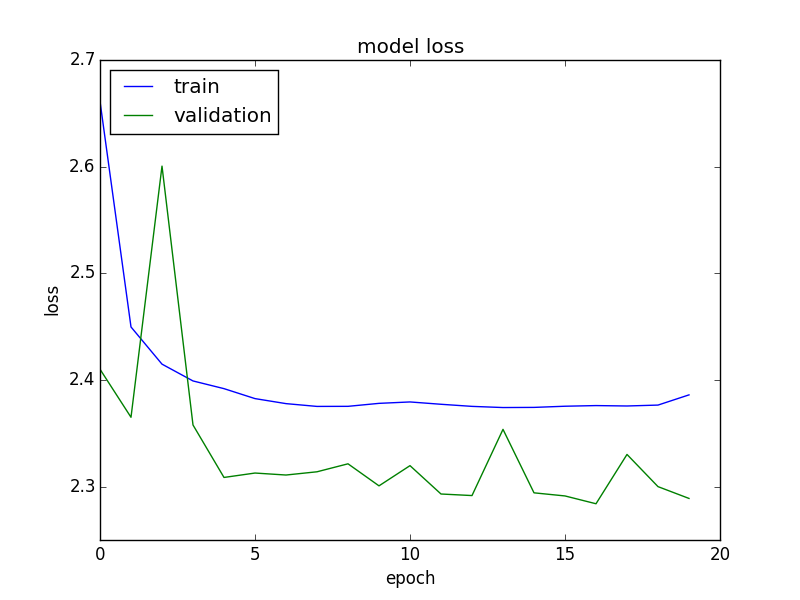
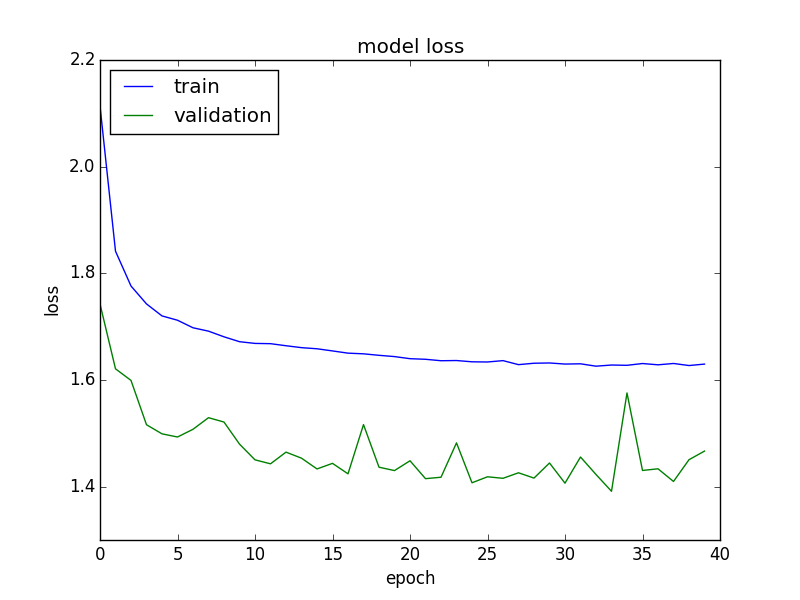
Experimento con 40 épocas grayscale

diff --git a/ex2_convnet_imgpre/convnet_imgpre.py b/ex2_convnet_imgpre/convnet_imgpre.py
@@ -17,7 +17,7 @@ import pprint
 
 batch_size = 32
 nb_classes = 91
-nb_epoch = 20
+nb_epoch = 40
 
 # input image dimensions
 img_rows, img_cols = 28, 28
@@ -41,9 +41,7 @@ tst_path = "../dataset/data_dest_dir/test/chars/"
 # En este generador metemos el aumentado.
 # TODO: Ojo que el generador de Train solo tiene que tener aumentado (Hay que hacer un generator para train, y un generator pelado para valid/test)
 img_generator = ImageDataGenerator(
-                    rescale=1./255,
-                    samplewise_center=True,
-                    samplewise_std_normalization=True
+                    rescale=1./255
                     )
 
 # Viendo que hay dos formas que nadie se pone de acuerdo, tomo este orden que pusiste acá: validación para elegir hiperparámetros, test para el test final.
@@ -51,21 +49,21 @@ img_generator = ImageDataGenerator(
 trn_dataset = img_generator.flow_from_directory(
     trn_path,
     target_size=(img_rows, img_cols),
-    #color_mode='grayscale',
+    color_mode='grayscale',
     class_mode='categorical',
     batch_size=batch_size
 )
 val_dataset = img_generator.flow_from_directory(
     val_path,
     target_size=(img_rows, img_cols),
-    #color_mode='grayscale',
+    color_mode='grayscale',
     class_mode='categorical',
     batch_size=batch_size
 )
 tst_dataset = img_generator.flow_from_directory(
     tst_path,
     target_size=(img_rows, img_cols),
-    #color_mode='grayscale',
+    color_mode='grayscale',
     class_mode='categorical',
     batch_size=batch_size
 )
@@ -105,17 +103,6 @@ model.compile(loss='categorical_crossentropy',
 model.summary()
 
 ####################################################################################################################
-# Save the model to a json file
-####################################################################################################################
-text_file = open('model.json', 'w')
-model_json = str(model.to_json())
-parsed_model_json = json.loads(model_json)
-text_file.write(json.dumps(parsed_model_json,  # JSON pretty print
-                           sort_keys=True,
-                           indent=4))
-text_file.close()
-
-####################################################################################################################
 # Start training
 ####################################################################################################################
 history = model.fit_generator(trn_dataset,
@@ -128,6 +115,17 @@ history = model.fit_generator(trn_dataset,
 
 scoreT = model.evaluate_generator(tst_dataset, testSamples)
 print("Test score: " + str(scoreT[0]) + "\nTest accuracy: " + str(scoreT[1]))
+
+####################################################################################################################
+# Save the model to a json file
+####################################################################################################################
+text_file = open('model.json', 'w')
+model_json = str(model.to_json())
+parsed_model_json = json.loads(model_json)
+text_file.write(json.dumps(parsed_model_json,  # JSON pretty print
+                           sort_keys=True,
+                           indent=4))
+text_file.close()
 
 ####################################################################################################################
 # Save some results to a text file
